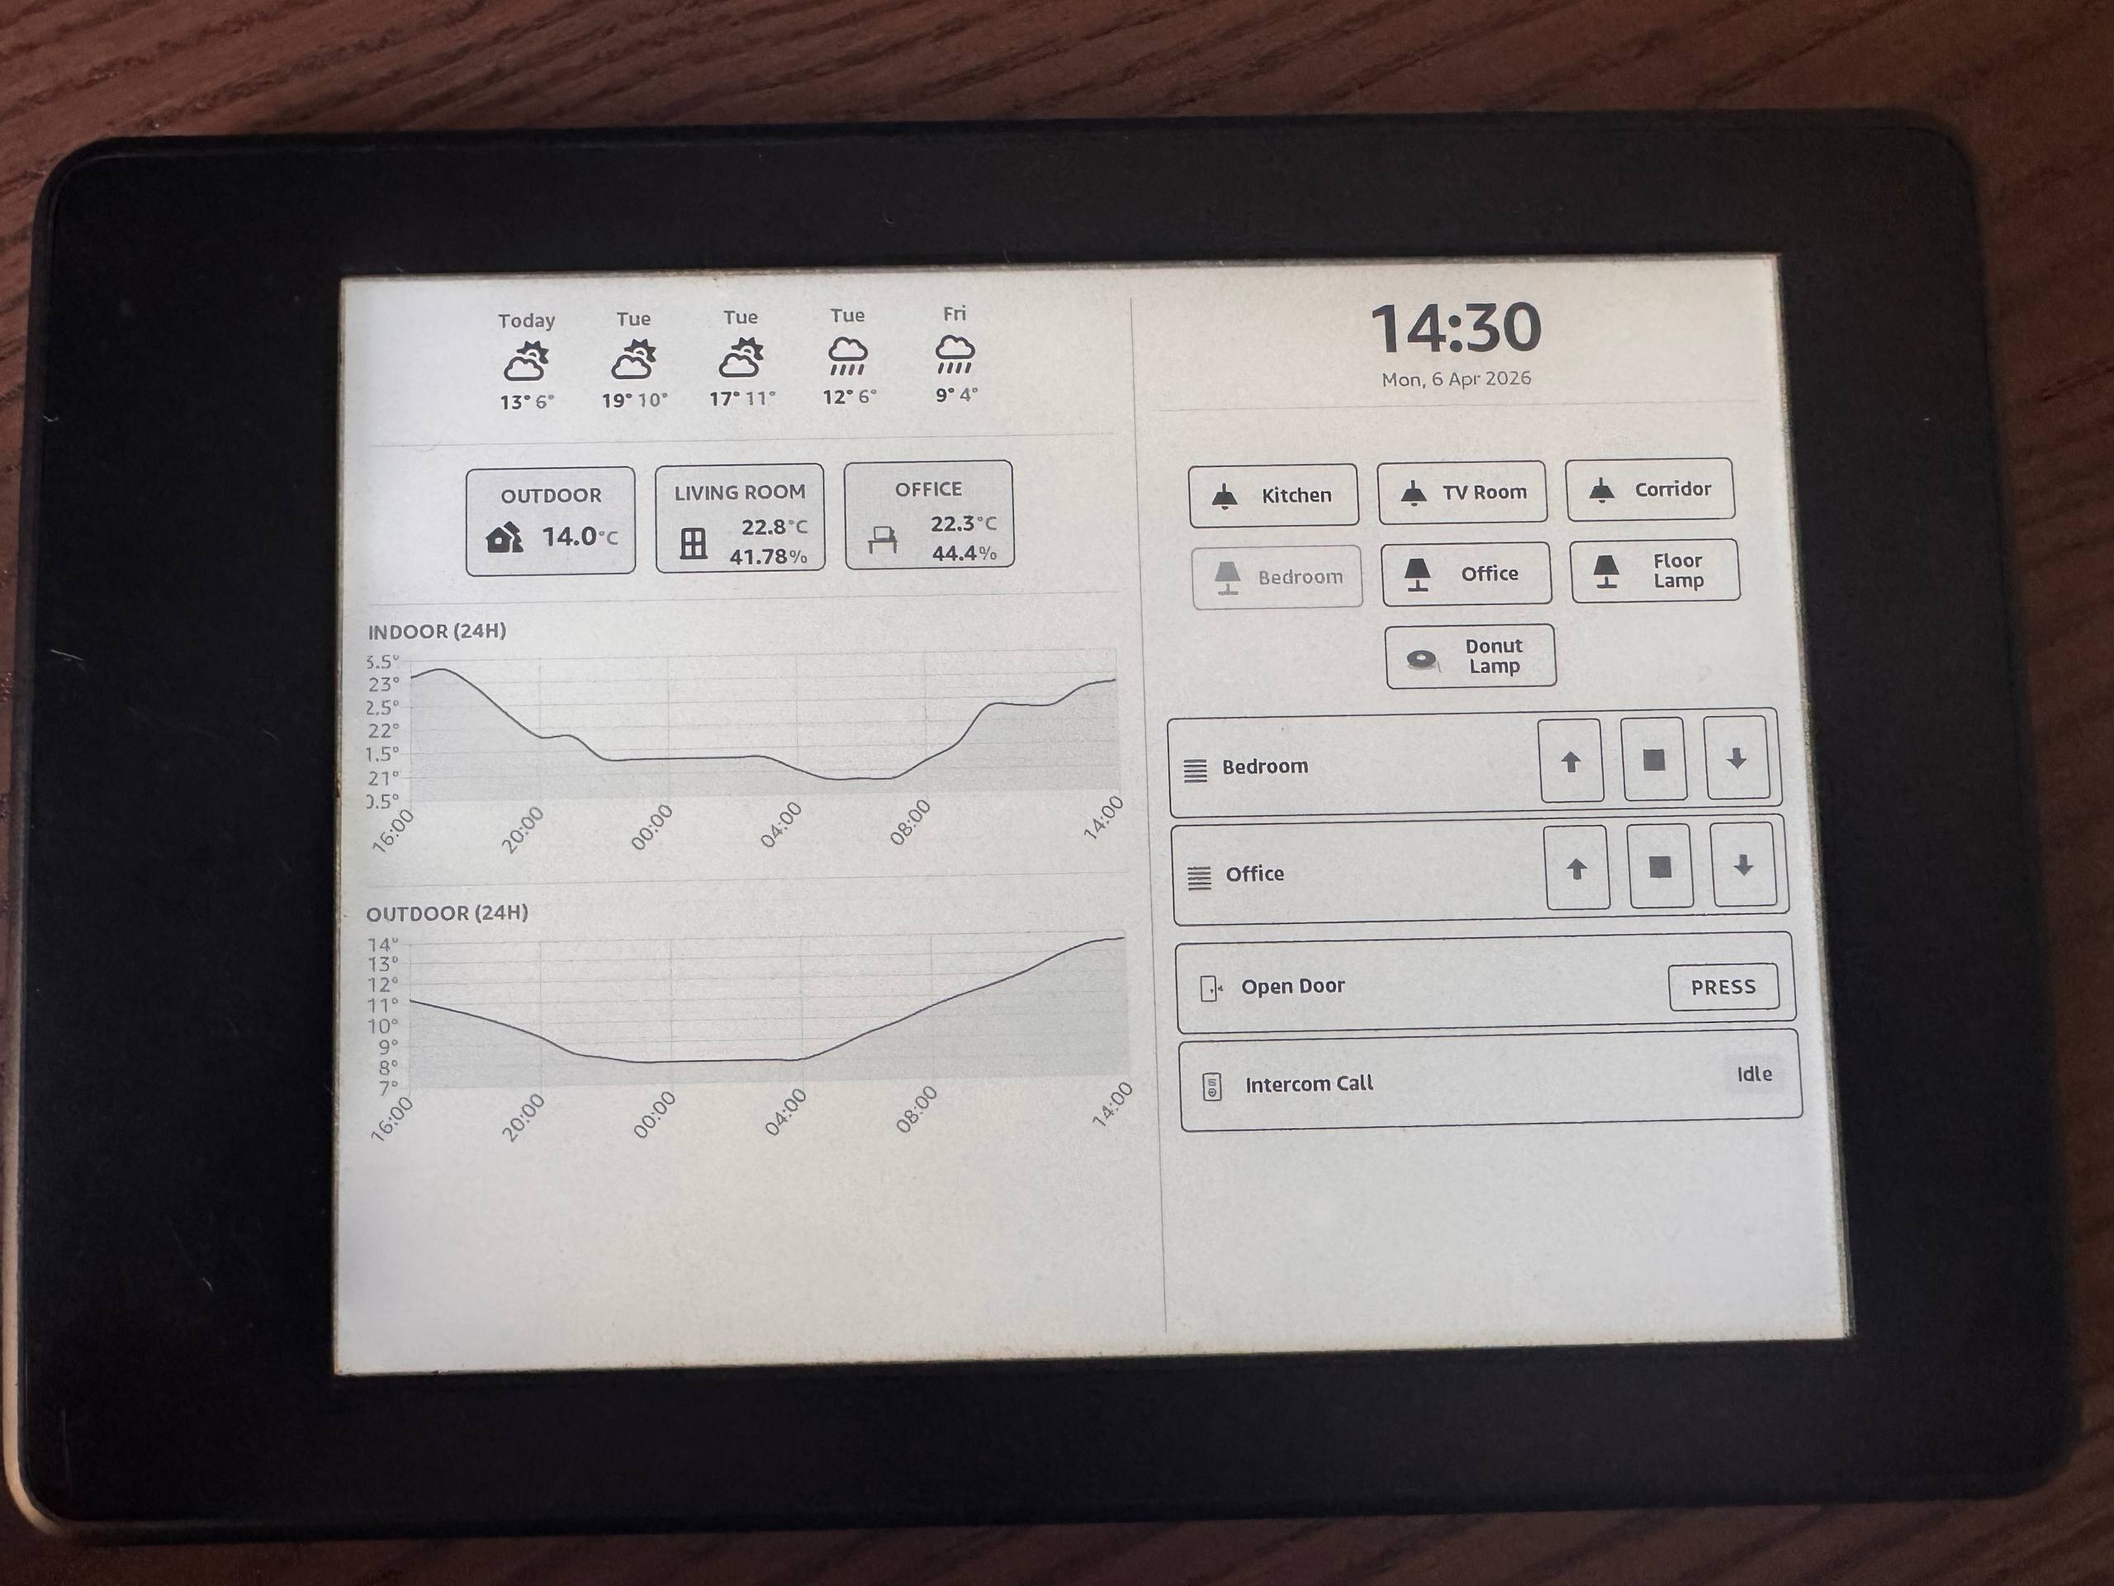
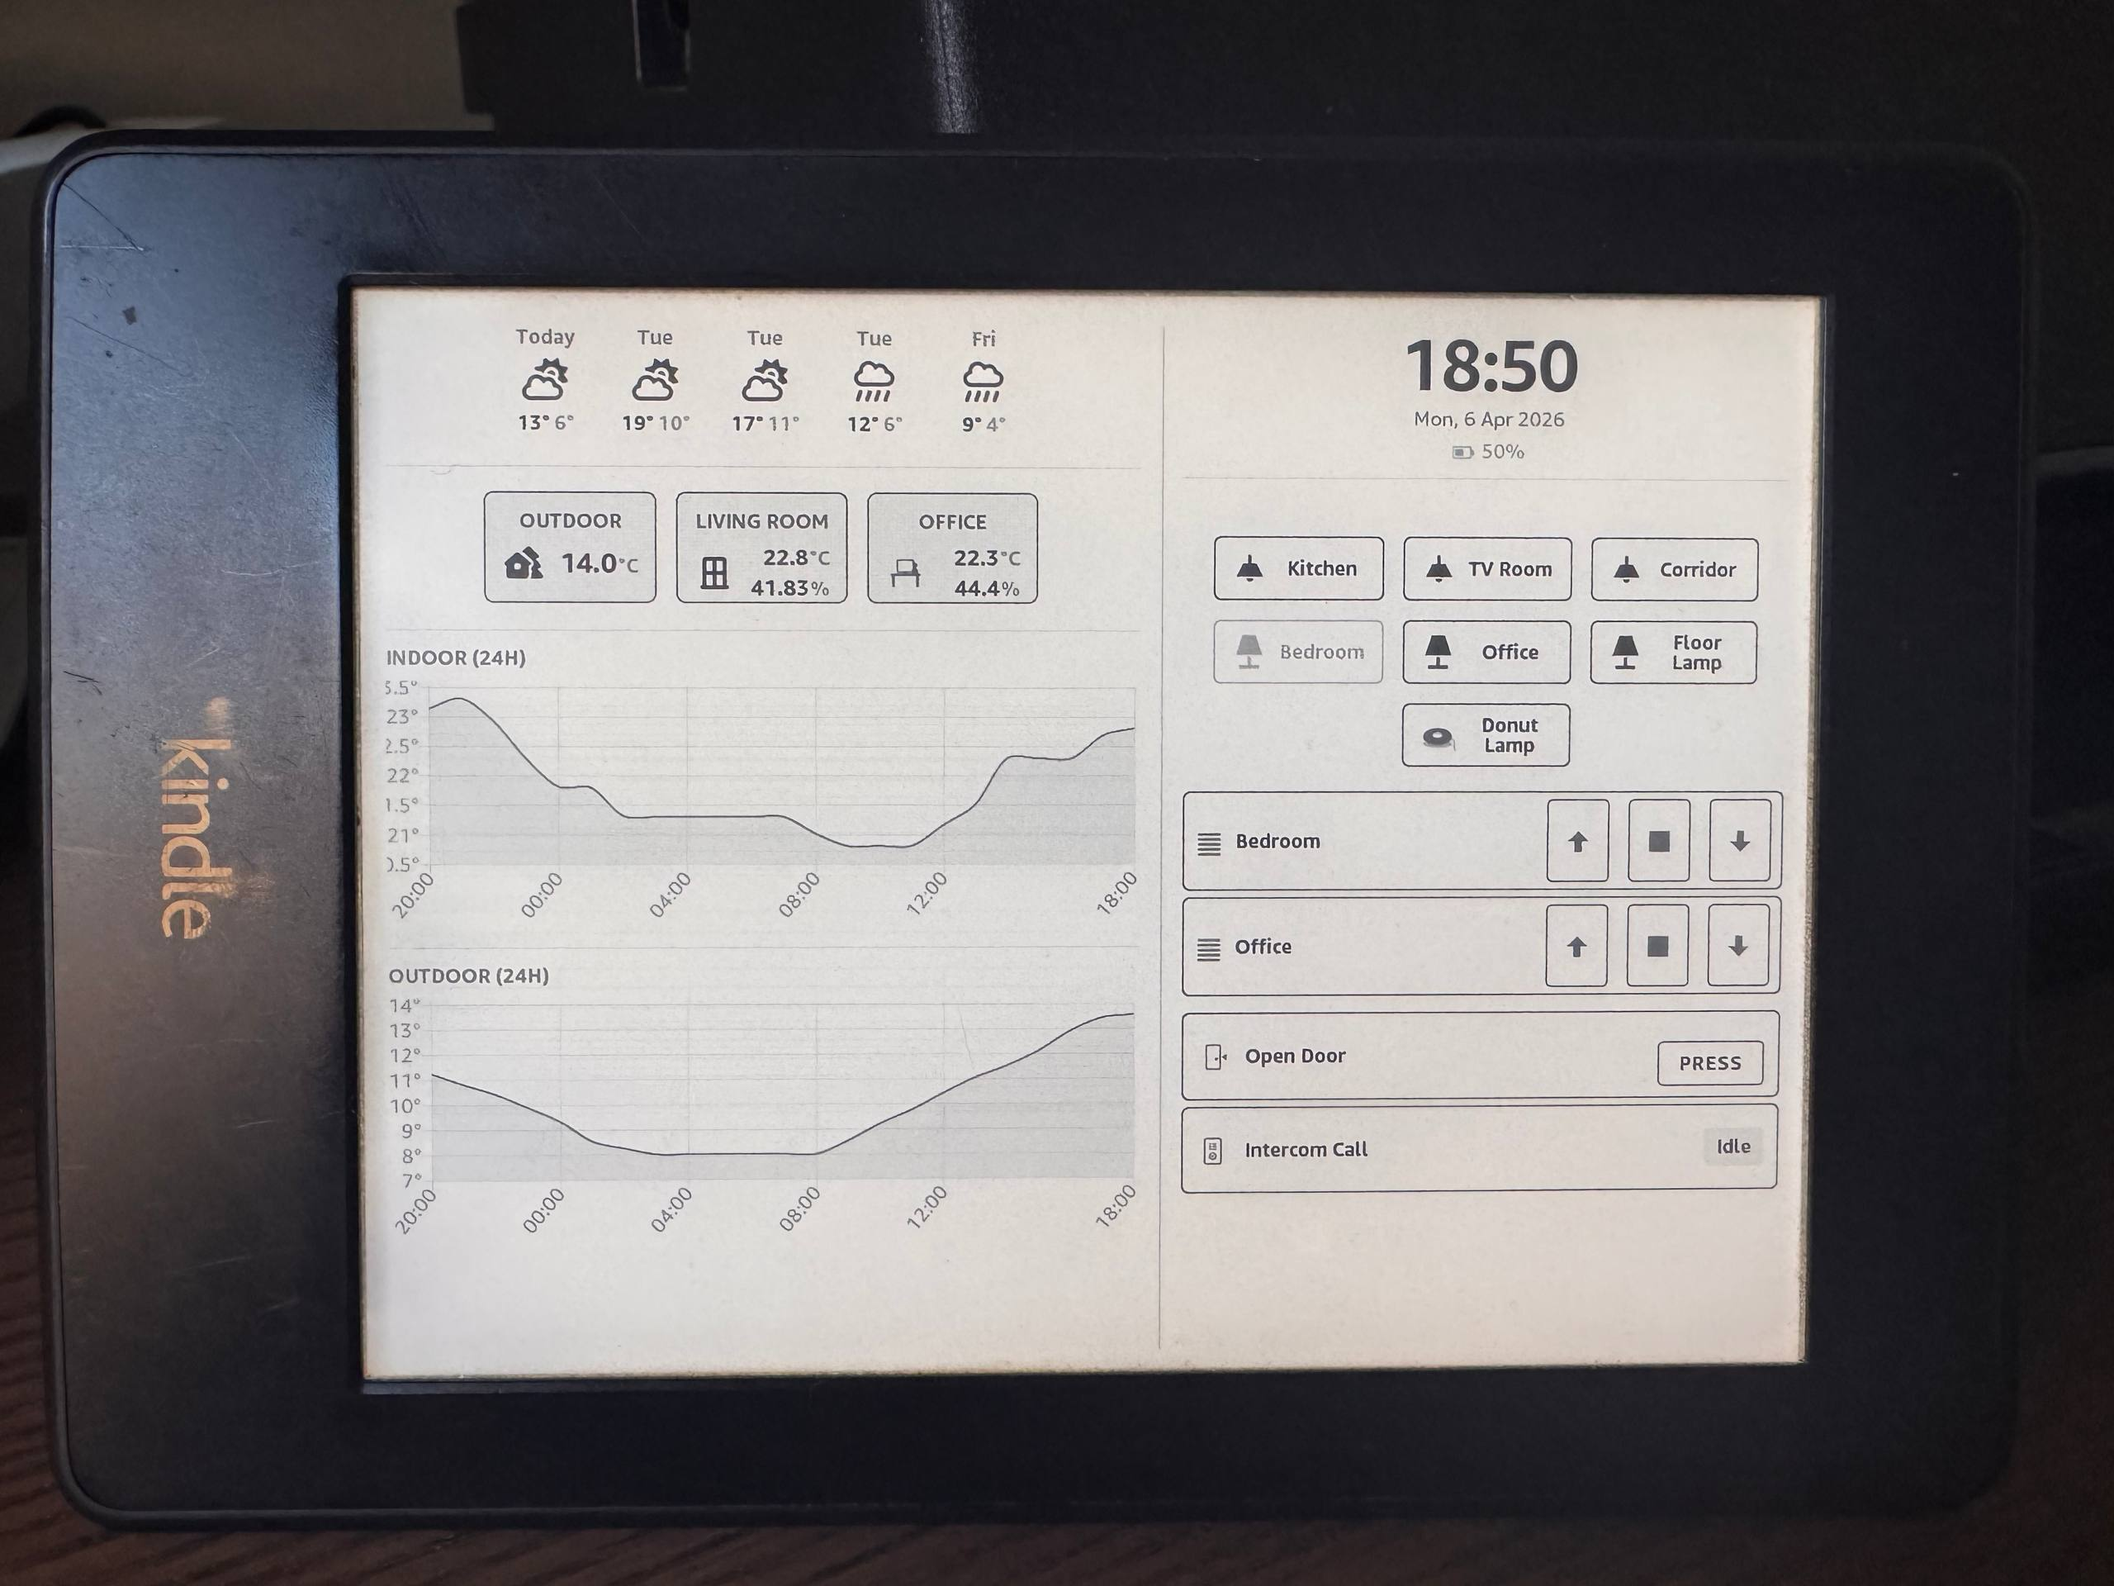
Fix battery display, rewrite README, update screenshot
- Fix battery: use battery.js script injection instead of XHR (file:// blocks XHR)
- run.sh tries lipc-get-prop, gasgauge-info, and sysfs as battery sources
- Rewrite README with detailed setup guide, entity templates, HA MCP tips
- Update screenshot with battery indicator and final layout

diff --git a/smarthomedisplay/mesquite/js/index.js b/smarthomedisplay/mesquite/js/index.js
@@ -110,31 +110,33 @@ function updateClock() {
 }
 updateClock();
 
-// Kindle battery — polls local file written by run.sh
-var batteryIcon = document.getElementById('batteryIcon');
-var batteryLevel = document.getElementById('batteryLevel');
-function updateBattery() {
-    var req = new XMLHttpRequest();
-    req.onreadystatechange = function() {
-        if(this.readyState != 4 || this.status != 200) return;
-        try {
-            var data = JSON.parse(this.responseText);
-            var level = parseInt(data.level);
-            batteryLevel.innerText = level + '%';
-            if(level > 60) {
-                batteryIcon.src = 'img/battery-full.svg';
-            } else if(level > 20) {
-                batteryIcon.src = 'img/battery-medium.svg';
-            } else {
-                batteryIcon.src = 'img/battery-low.svg';
-            }
-        } catch(e) {}
-    };
-    req.open('GET', 'battery.json?' + Date.now());
-    req.send();
+// Kindle battery — reads from battery.js global variable (written by run.sh)
+var batteryIconEl = document.getElementById('batteryIcon');
+var batteryLevelEl = document.getElementById('batteryLevel');
+function updateBatteryDisplay() {
+    if(typeof KINDLE_BATTERY === 'undefined' || KINDLE_BATTERY < 0) return;
+    var level = parseInt(KINDLE_BATTERY);
+    batteryLevelEl.innerText = level + '%';
+    if(level > 60) {
+        batteryIconEl.src = 'img/battery-full.svg';
+    } else if(level > 20) {
+        batteryIconEl.src = 'img/battery-medium.svg';
+    } else {
+        batteryIconEl.src = 'img/battery-low.svg';
+    }
 }
-updateBattery();
-setInterval(updateBattery, 60000);
+function reloadBattery() {
+    // Reload battery.js by injecting a new script tag
+    var s = document.createElement('script');
+    s.src = 'battery.js?' + Date.now();
+    s.onload = function() {
+        updateBatteryDisplay();
+        document.head.removeChild(s);
+    };
+    document.head.appendChild(s);
+}
+updateBatteryDisplay();
+setInterval(reloadBattery, 60000);
 
 // Weather widget — using Open-Meteo API (works worldwide)
 var weatherForecasts = document.querySelectorAll('#weatherWidget .forecast');

diff --git a/smarthomedisplay/mesquite/index.html b/smarthomedisplay/mesquite/index.html
@@ -174,6 +174,8 @@
     <div id="refreshBox"></div>
 
     <script src="config.js"></script>
+    <script>var KINDLE_BATTERY = -1;</script>
+    <script src="battery.js"></script>
     <script src="js/error-logger.js"></script>
     <script src="js/chart.min.js"></script>
     <script src="js/index.js"></script>

diff --git a/README.md b/README.md
@@ -1,47 +1,222 @@
 # Kindle SmartHome Dashboard
 
-An interactive Home Assistant dashboard running on a jailbroken Kindle PW3 (e-ink). Forked from [1RandomDev/kindle-smarthome-dashboard](https://github.com/1RandomDev/kindle-smarthome-dashboard), customized for a Dublin-based smart home.
+An interactive Home Assistant dashboard running on a jailbroken Kindle PW3 e-ink display. Touch buttons toggle lights, control shutters, open the intercom door — all with real-time state updates via WebSocket.
+
+Forked from [1RandomDev/kindle-smarthome-dashboard](https://github.com/1RandomDev/kindle-smarthome-dashboard).
 
 ![Dashboard](images/project-picture.jpg)
 
-### Features
-- 5-day weather forecast (Open-Meteo)
-- Temperature + humidity cards (indoor/outdoor)
-- 24h temperature history charts
-- Light/switch toggles with real-time state updates
-- Shutter controls (open/stop/close)
-- Intercom door opener + incoming call status
-- Kindle battery indicator
-- Power button refreshes e-ink screen
+## Features
 
-### Architecture
+- **Weather** — 5-day forecast via Open-Meteo (works worldwide, no API key needed)
+- **Sensor cards** — Temperature + humidity with combo cards (indoor/outdoor)
+- **Temperature charts** — 24h history for indoor and outdoor, auto-refresh every 30 min
+- **Light controls** — Toggle any light or switch with instant visual feedback
+- **Shutter controls** — Open / Stop / Close buttons for roller shutters
+- **Intercom** — Door opener button + incoming call status indicator
+- **Battery** — Kindle battery level with dynamic icon (full/medium/low)
+- **Clock** — Time, date, and timezone-aware (Europe/Dublin)
+- **Power button** — Short press refreshes screen (clears e-ink ghosting), long hold restarts Kindle
+
+## Architecture
 
 ```
-Kindle PW3 (mesquite browser) <--WebSocket--> HA Add-on (Node.js proxy) <--WebSocket--> Home Assistant
+Kindle PW3 (mesquite browser)
+    |
+    | WebSocket (old protocol)
+    v
+HA Add-on: Node.js Proxy (port 4365)
+    |
+    | WebSocket (modern protocol)
+    v
+Home Assistant API
 ```
 
-The WebSocket proxy translates the Kindle's outdated WebSocket version into something Home Assistant understands.
+The Kindle PW3 uses an old WebKit browser with an outdated WebSocket implementation. The Node.js proxy bridges this gap — translating the old protocol to Home Assistant's modern WebSocket API, and handling resource-intensive operations server-side.
 
-### Setup
+## Prerequisites
 
-#### Home Assistant Add-on (recommended)
-1. Copy the `ha-addon` directory to `/addons/kindle-dashboard-proxy` on your HA server
-2. In HA: Settings > Apps > App Store > Reload > Install **Kindle Dashboard Proxy**
-3. The add-on uses the Supervisor API token automatically — no manual token needed
+- **Kindle PW3** (or similar) — jailbroken with [WinterBreak](https://kindlemodding.org/jailbreaking/)
+- **KUAL** installed on the Kindle ([MobileRead guide](https://www.mobileread.com/forums/showthread.php?t=225030))
+- **Home Assistant** — with HAOS (for the add-on approach) or any install with API access
+- **WiFi** — Kindle must be on the same network as your HA server
 
-#### Manual Proxy (alternative)
-1. Copy `websocket-proxy/config.sample.json` to `config.json` and fill in your HA URL + access token
-2. Run with `node main.js`
+## Setup Guide
 
-#### Kindle Extension
-Requires a [jailbroken Kindle](https://kindlemodding.org/jailbreaking/) with KUAL installed.
-1. Copy `smarthomedisplay` to the `extensions` folder on your Kindle
-2. Copy `mesquite/config.sample.js` to `mesquite/config.js` and set your proxy WebSocket URL
-3. Open KUAL > SmartHome Display > Launch
+### Step 1: Install the WebSocket Proxy on Home Assistant
 
-#### Power Button
-- **Short press**: full screen refresh (clears e-ink ghosting)
-- **Long hold**: Kindle hardware restart (exits dashboard)
+The proxy runs as a Home Assistant add-on — it starts automatically with HA and requires no manual token configuration.
 
-### Based on
-[1RandomDev/kindle-smarthome-dashboard](https://github.com/1RandomDev/kindle-smarthome-dashboard) — [Reddit Post](https://www.reddit.com/r/homeassistant/comments/1n97ox2/my_kindle_smarthome_dashboard/)
+1. **Copy the add-on to your HA server** via SSH:
+   ```bash
+   scp -r ha-addon root@YOUR_HA_IP:/addons/kindle-dashboard-proxy
+   ```
+   > If SSH isn't enabled, install the **Terminal & SSH** add-on in HA first (Settings > Apps > search "Terminal & SSH"), add your SSH public key in its Configuration tab, set port 22, and start it.
+
+2. **Install the add-on** in HA:
+   - Go to **Settings > Apps > App Store**
+   - Click the **three dots** (top right) > **Check for updates**
+   - Scroll to **Local apps** — you should see **"Kindle Dashboard Proxy"**
+   - Click it > **Install** > **Start**
+
+3. **Verify** in the add-on's **Log** tab — you should see:
+   ```
+   [homeassistant] Sucessfully authenticated
+   [kindle-display] Starting WebSocket server on port 4365
+   ```
+
+> **How it works:** The add-on uses Home Assistant's Supervisor API token (auto-injected) to authenticate with HA. No long-lived access token needed.
+
+#### Alternative: Run Proxy Manually
+
+If you're not using HAOS, you can run the proxy on any machine with Node.js:
+
+1. `cd websocket-proxy`
+2. `cp config.sample.json config.json`
+3. Edit `config.json` — set your HA URL and a [long-lived access token](http://YOUR_HA_IP:8123/profile/security)
+4. `npm install && node main.js`
+
+### Step 2: Configure the Kindle Extension
+
+1. **Copy the extension** to your Kindle via USB:
+   ```bash
+   cp -r smarthomedisplay /Volumes/Kindle/extensions/smarthomedisplay
+   ```
+
+2. **Create the config file:**
+   ```bash
+   cp smarthomedisplay/mesquite/config.sample.js smarthomedisplay/mesquite/config.js
+   ```
+
+3. **Edit `config.js`** with your settings:
+   ```javascript
+   var DEBUG_MODE = false;
+   var WS_URL = 'ws://YOUR_HA_IP:4365?accessToken=kindle_ha_dashboard';
+   var WEATHER_LAT = 53.37;    // Your latitude
+   var WEATHER_LON = -6.39;    // Your longitude
+   ```
+   > The `accessToken` here is a shared secret between the Kindle and the proxy (not your HA token). It must match the `kindle-display.accessToken` in the proxy config. Default: `kindle_ha_dashboard`.
+
+4. **Copy the updated config to the Kindle** (if editing on your computer):
+   ```bash
+   cp smarthomedisplay/mesquite/config.js /Volumes/Kindle/extensions/smarthomedisplay/mesquite/config.js
+   ```
+
+5. **Eject the Kindle**, connect to WiFi, and launch:
+   **KUAL > SmartHome Display > Launch SmartHome Display**
+
+### Step 3: Using the Dashboard
+
+- **Tap light/switch buttons** to toggle them — they highlight when on
+- **Tap shutter arrows** to open/stop/close roller shutters
+- **Tap "PRESS"** on the intercom row to open the door
+- **Short press power button** to refresh the e-ink screen (clears ghosting)
+- **Long hold power button** to restart the Kindle and exit the dashboard
+
+## Customizing the Dashboard
+
+### Adding Entities
+
+The dashboard is a plain HTML/CSS/JS app in `smarthomedisplay/mesquite/`. All entities are defined in `index.html` with `data-entity-id` attributes.
+
+**Light or switch toggle:**
+```html
+<div class="button" data-entity-id="light.your_light">
+    <div class="icon"><img src="img/buttons/ceiling-light.svg"></div>
+    <div class="title">Light Name</div>
+</div>
+```
+
+**Sensor card:**
+```html
+<div class="card" data-entity-id="sensor.your_sensor">
+    <div class="title">SENSOR NAME</div>
+    <div class="row">
+        <div class="icon"><img src="img/cards/temp-outside.svg"></div>
+        <div class="value"><span class="val">-</span><span class="val-unit">°C</span></div>
+    </div>
+</div>
+```
+
+**Combo card (temperature + humidity):**
+```html
+<div class="card combo-card">
+    <div class="title">ROOM NAME</div>
+    <div class="row">
+        <div class="icon"><img src="img/cards/temp-outside.svg"></div>
+        <div class="value">
+            <span class="val" data-entity-id="sensor.temp_entity">-</span><span class="val-unit">°C</span>
+            <span class="val-separator"> | </span>
+            <span class="val" data-entity-id="sensor.humidity_entity">-</span><span class="val-unit">%</span>
+        </div>
+    </div>
+</div>
+```
+
+**Shutter (open/stop/close):**
+```html
+<div class="shutter-row">
+    <div class="shutter-icon"><img src="img/buttons/shutter.svg"></div>
+    <div class="shutter-name">Shutter Name</div>
+    <div class="shutter-actions">
+        <div class="shutter-action" data-cover="cover.your_cover" data-action="open"><img src="img/buttons/arrow-up.svg"></div>
+        <div class="shutter-action" data-cover="cover.your_cover" data-action="stop"><img src="img/buttons/stop.svg"></div>
+        <div class="shutter-action" data-cover="cover.your_cover" data-action="close"><img src="img/buttons/arrow-down.svg"></div>
+    </div>
+</div>
+```
+
+**Button press (e.g., door opener):**
+```html
+<div class="intercom-btn" data-button="button.your_button">PRESS</div>
+```
+
+### Development Workflow
+
+The fastest way to iterate on the dashboard:
+
+1. **Preview in your browser:**
+   ```bash
+   open smarthomedisplay/mesquite/index.html
+   ```
+   Edit files, refresh with Cmd+R. Layout and weather render without WebSocket.
+
+2. **Deploy to Kindle** when happy:
+   ```bash
+   yes | cp -r smarthomedisplay/mesquite/* /Volumes/Kindle/extensions/smarthomedisplay/mesquite/
+   ```
+
+3. Eject and relaunch on Kindle.
+
+### Customizing with Claude Code + HA MCP
+
+This project includes a `CLAUDE.md` with full project documentation. When using [Claude Code](https://claude.ai/code) in this directory, Claude automatically understands the project structure, Kindle constraints, and deployment workflow.
+
+For the best experience, connect Claude Code to your Home Assistant via the [HA MCP server](https://github.com/hjdhjd/homebridge-hap-mcp). This allows Claude to:
+
+- **Query your HA entities** directly to find the right entity IDs
+- **Search for sensors, lights, covers** without you looking them up manually
+- **Design dashboard layouts** based on your actual devices
+
+Example workflow:
+```
+You: "Add my garage door to the dashboard"
+Claude: [queries HA MCP for cover entities] → [finds cover.garage_door] → [adds HTML + deploys to Kindle]
+```
+
+## Important: Kindle WebKit Constraints
+
+The Kindle PW3 runs an old WebKit browser. When editing the JavaScript:
+
+- **No ES6+**: use `var`, not `let`/`const`. No arrow functions, no template literals.
+- **No `fetch()`**: use `XMLHttpRequest`
+- **Date parsing**: `new Date('2026-04-06T12:00')` may fail. Parse manually.
+- **No CSS flexbox/grid**: use `float`, `display: table-cell`, `inline-block`
+- **Colors**: black, white, and grays only (e-ink display)
+
+## Credits
+
+- [1RandomDev](https://github.com/1RandomDev/kindle-smarthome-dashboard) — original project and architecture
+- [Reddit post](https://www.reddit.com/r/homeassistant/comments/1n97ox2/my_kindle_smarthome_dashboard/) — original discussion
+- [KindleModding](https://kindlemodding.org/) — jailbreak and modding community
+- [NiLuJe](https://www.mobileread.com/forums/showthread.php?t=225030) — KUAL, MRInstaller, and Kindle hacking tools
